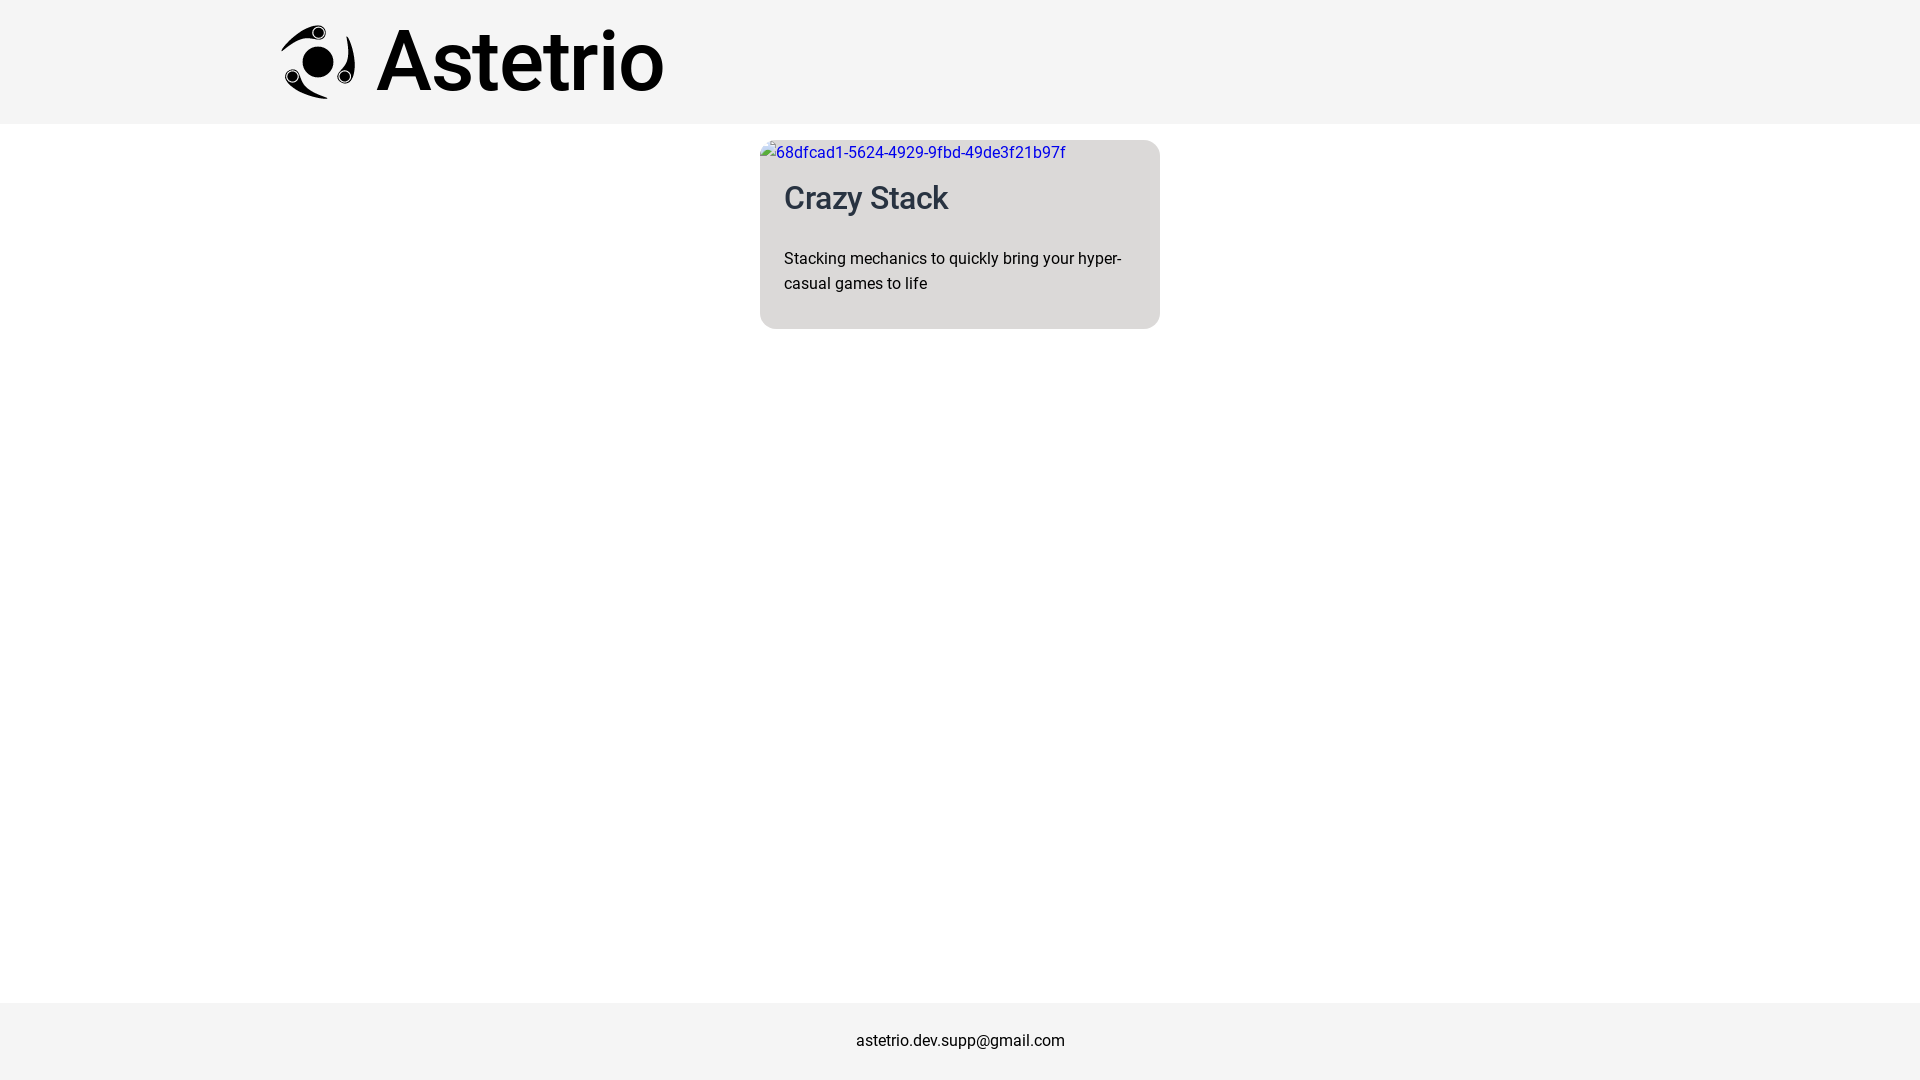
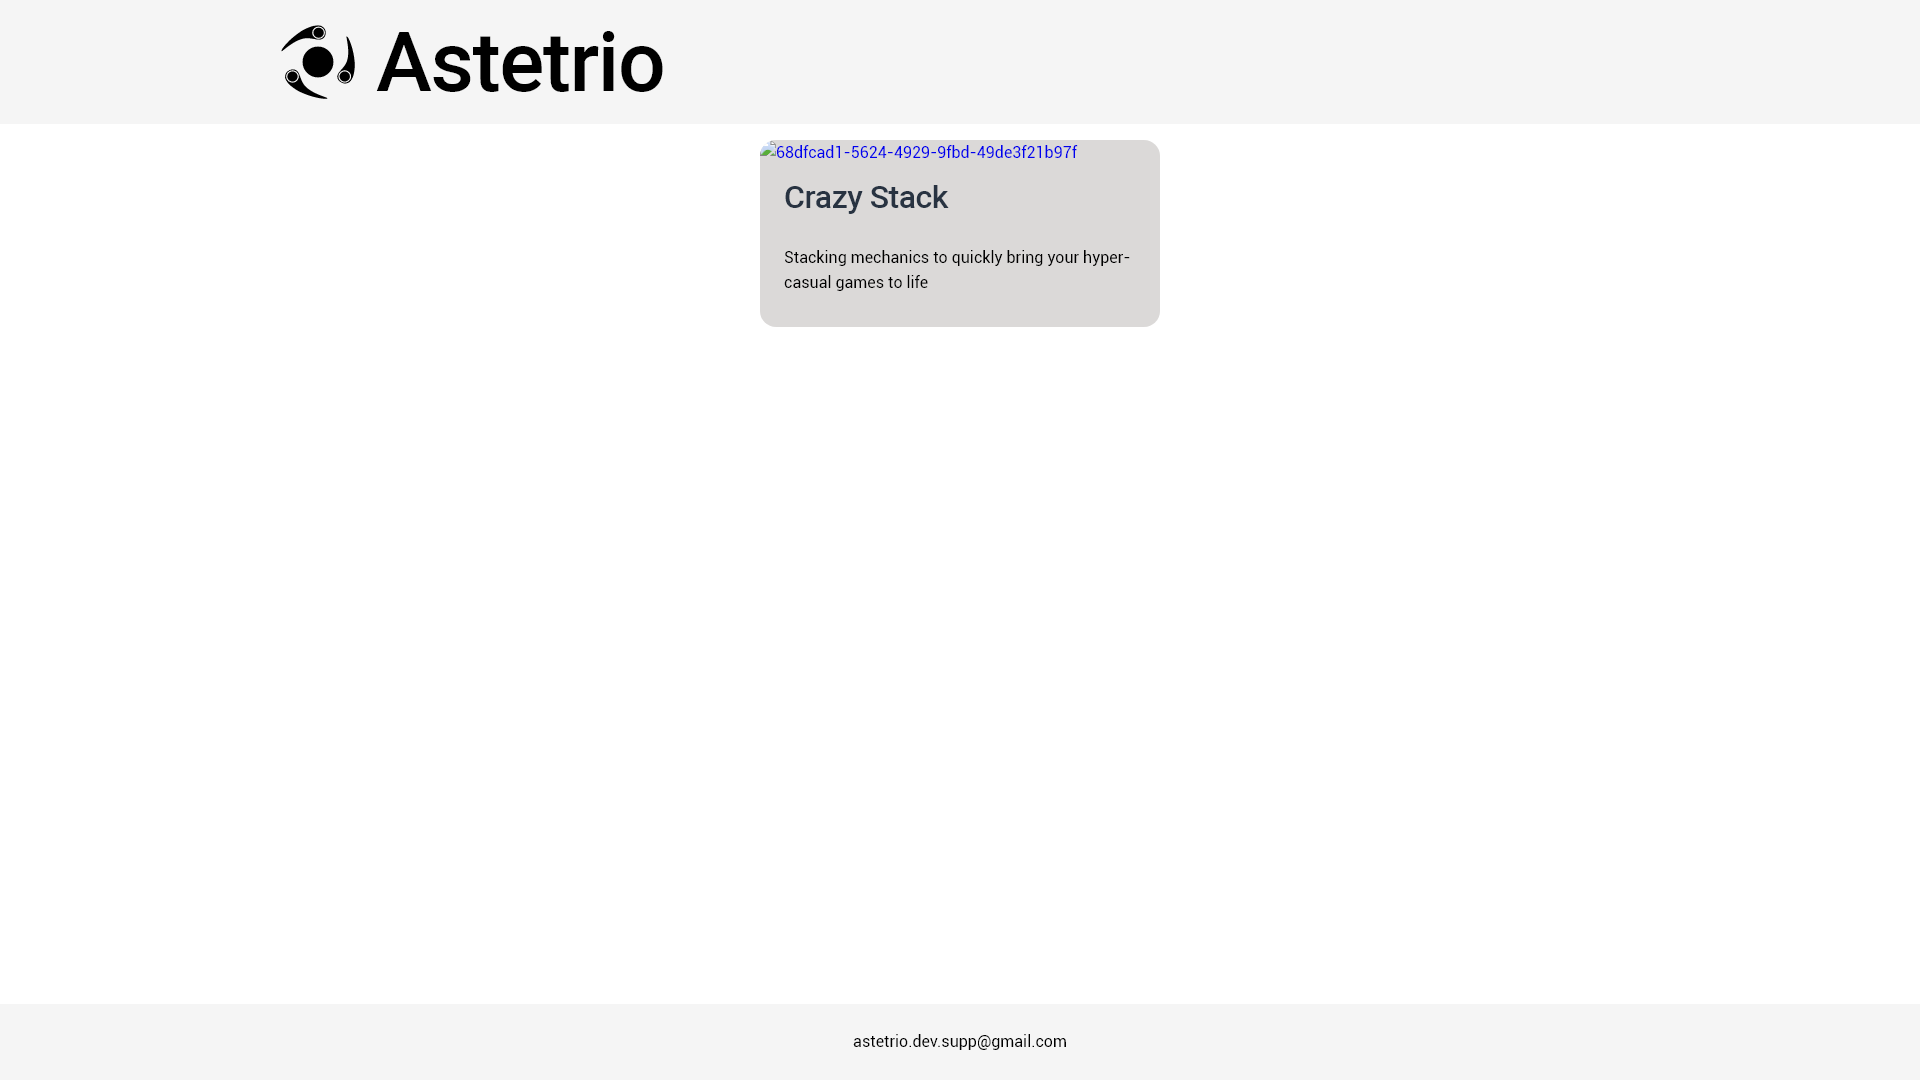
Some changes

diff --git a/src/utils/markdown-it-image-percentage-width.ts b/src/utils/markdown-it-image-percentage-width.ts
@@ -30,52 +30,76 @@ function plugin(md: MarkdownIt, options: Options) {
     return defaultRender?.(tokens, idx, options, env, self) ?? '';
   };*/
 
-  return function(state: StateInline, silent: boolean) {
+  return function (state: StateInline, silent: boolean) {
     var attrs,
-        code,
-        content,
-        label,
-        labelEnd,
-        labelStart,
-        pos,
-        ref,
-        res,
-        title,
-        token,
-        tokens,
-        start,
-        href = '',
-        oldPos = state.pos,
-        max = state.posMax;
+      code,
+      content,
+      label,
+      labelEnd,
+      labelStart,
+      pos,
+      ref,
+      res,
+      title,
+      token,
+      tokens,
+      start,
+      href = '',
+      oldPos = state.pos,
+      max = state.posMax;
 
-    if (state.src.charCodeAt(state.pos) !== 0x21/* ! */) { return false; }
-    const temp = state.src.substring(state.pos + 1, state.pos + 5);
+    if (state.src.charCodeAt(state.pos) !== 0x21 /* ! */) {
+      return false;
+    }
+    const align =
+      state.src.charCodeAt(state.pos + 1) === 0x3e
+        ? 'right'
+        : state.src.charCodeAt(state.pos + 1) === 0x3c
+        ? 'left'
+        : 'center';
+    const offset = isNaN(parseInt(state.src[state.pos + 1])) ? 2 : 1;
+    const temp = state.src.substring(
+      state.pos + offset,
+      state.pos + offset + 4,
+    );
     const padding = parseInt(temp);
     const nums = padding.toString().length;
-    if (padding !== NaN && temp.charCodeAt(nums) !== 0x5B/* [ */) { return false; }
-		// console.log(padding);
+    if (padding !== NaN && temp.charCodeAt(nums) !== 0x5b /* [ */) {
+      return false;
+    }
+    // console.log(padding);
 
-    labelStart = state.pos + 2 + nums;
-    labelEnd = state.md.helpers.parseLinkLabel(state, state.pos + 1 + nums, false);
-  
+    labelStart = state.pos + offset + nums + 1;
+    labelEnd = state.md.helpers.parseLinkLabel(
+      state,
+      state.pos + offset + nums,
+      false,
+    );
+
     // parser failed to find ']', so it's not a valid link
-    if (labelEnd < 0) { return false; }
-  
+    if (labelEnd < 0) {
+      return false;
+    }
+
     pos = labelEnd + 1;
-    if (pos < max && state.src.charCodeAt(pos) === 0x28/* ( */) {
+    if (pos < max && state.src.charCodeAt(pos) === 0x28 /* ( */) {
       //
       // Inline link
       //
-  
+
       // [link](  <href>  "title"  )
       //        ^^ skipping these spaces
       pos++;
       for (; pos < max; pos++) {
         code = state.src.charCodeAt(pos);
-        if (!isSpace(code) && code !== 0x0A) { break; }
+        if (!isSpace(code) && code !== 0x0a) {
+          break;
+        }
       }
-      if (pos >= max) { return false; }
-  
+      if (pos >= max) {
+        return false;
+      }
+
       // [link](  <href>  "title"  )
       //          ^^^^^^ parsing link destination
       start = pos;
@@ -88,33 +112,37 @@ function plugin(md: MarkdownIt, options: Options) {
           href = '';
         }
       }
-  
+
       // [link](  <href>  "title"  )
       //                ^^ skipping these spaces
       start = pos;
       for (; pos < max; pos++) {
         code = state.src.charCodeAt(pos);
-        if (!isSpace(code) && code !== 0x0A) { break; }
+        if (!isSpace(code) && code !== 0x0a) {
+          break;
+        }
       }
-  
+
       // [link](  <href>  "title"  )
       //                  ^^^^^^^ parsing link title
       res = state.md.helpers.parseLinkTitle(state.src, pos, state.posMax);
       if (pos < max && start !== pos && res.ok) {
         title = res.str;
         pos = res.pos;
-  
+
         // [link](  <href>  "title"  )
         //                         ^^ skipping these spaces
         for (; pos < max; pos++) {
           code = state.src.charCodeAt(pos);
-          if (!isSpace(code) && code !== 0x0A) { break; }
+          if (!isSpace(code) && code !== 0x0a) {
+            break;
+          }
         }
       } else {
         title = '';
       }
-  
-      if (pos >= max || state.src.charCodeAt(pos) !== 0x29/* ) */) {
+
+      if (pos >= max || state.src.charCodeAt(pos) !== 0x29 /* ) */) {
         state.pos = oldPos;
         return false;
       }
@@ -123,9 +151,11 @@ function plugin(md: MarkdownIt, options: Options) {
       //
       // Link reference
       //
-      if (typeof state.env.references === 'undefined') { return false; }
-  
-      if (pos < max && state.src.charCodeAt(pos) === 0x5B/* [ */) {
+      if (typeof state.env.references === 'undefined') {
+        return false;
+      }
+
+      if (pos < max && state.src.charCodeAt(pos) === 0x5b /* [ */) {
         start = pos + 1;
         pos = state.md.helpers.parseLinkLabel(state, pos);
         if (pos >= 0) {
@@ -136,11 +166,13 @@ function plugin(md: MarkdownIt, options: Options) {
       } else {
         pos = labelEnd + 1;
       }
-  
+
       // covers label === '' and label === undefined
       // (collapsed reference link and shortcut reference link respectively)
-      if (!label) { label = state.src.slice(labelStart, labelEnd); }
-  
+      if (!label) {
+        label = state.src.slice(labelStart, labelEnd);
+      }
+
       ref = state.env.references[normalizeReference(label)];
       if (!ref) {
         state.pos = oldPos;
@@ -149,37 +181,43 @@ function plugin(md: MarkdownIt, options: Options) {
       href = ref.href;
       title = ref.title;
     }
-  
+
     //
     // We found the end of the link, and know for a fact it's a valid link;
     // so all that's left to do is to call tokenizer.
     //
     if (!silent) {
       content = state.src.slice(labelStart, labelEnd);
-  
-      state.md.inline.parse(
-        content,
-        state.md,
-        state.env,
-        tokens = []
-      );
-  
-      token          = state.push('image', 'img', 0);
-      token.attrs    = attrs = [ [ 'src', href ], [ 'alt', '' ], [ 'style', `width: ${padding}%;margin-left: ${(100 - padding) / 2}%;` ] ];
+
+      state.md.inline.parse(content, state.md, state.env, (tokens = []));
+
+      const margin =
+        align === 'left'
+          ? 0
+          : align === 'center'
+          ? (100 - padding) / 2
+          : 100 - padding;
+
+      token = state.push('image', 'img', 0);
+      token.attrs = attrs = [
+        ['src', href],
+        ['alt', ''],
+        ['style', `width: ${padding}%;margin-left: ${margin}%;`],
+      ];
       token.children = tokens;
-      token.content  = content;
-  
+      token.content = content;
+
       if (title) {
-        attrs.push([ 'title', title ]);
+        attrs.push(['title', title]);
       }
     }
-  
+
     state.pos = pos;
     state.posMax = max;
     return true;
   };
 }
 
-export default function(md: MarkdownIt, options: Options) {
-	md.inline.ruler.before('image', 'pimage', plugin(md, options));
-};
+export default function (md: MarkdownIt, options: Options) {
+  md.inline.ruler.before('image', 'pimage', plugin(md, options));
+}

diff --git a/src/stores/crazy-stack.md b/src/stores/crazy-stack.md
@@ -1,12 +1,12 @@
-|| Use this incredible pack to make games with stack mechanics quickly and easily
+Use this incredible pack to make games with stack mechanics quickly and easily
 
-|| Make different factories and food stands 🏭
-!60[picking](/public/images/crazy-stack/picking.gif)
+Make different factories and food stands 🏭
+!<60[picking](/public/images/crazy-stack/picking.gif)
 
-|| Make runners with a stickman carrying pallets of eggs 🥚
-!60[picking](/public/images/crazy-stack/moving.png)
+Make runners with a stickman carrying pallets of eggs 🥚
+!<60[picking](/public/images/crazy-stack/moving.png)
 
-|| Do whatever you want with your imagination!!! 🤩
-!60[picking](/public/images/crazy-stack/delivery.png)
+Do whatever you want with your imagination!!! 🤩
+!<60[picking](/public/images/crazy-stack/delivery.png)
 
 Unity asset store link: Coming soon
